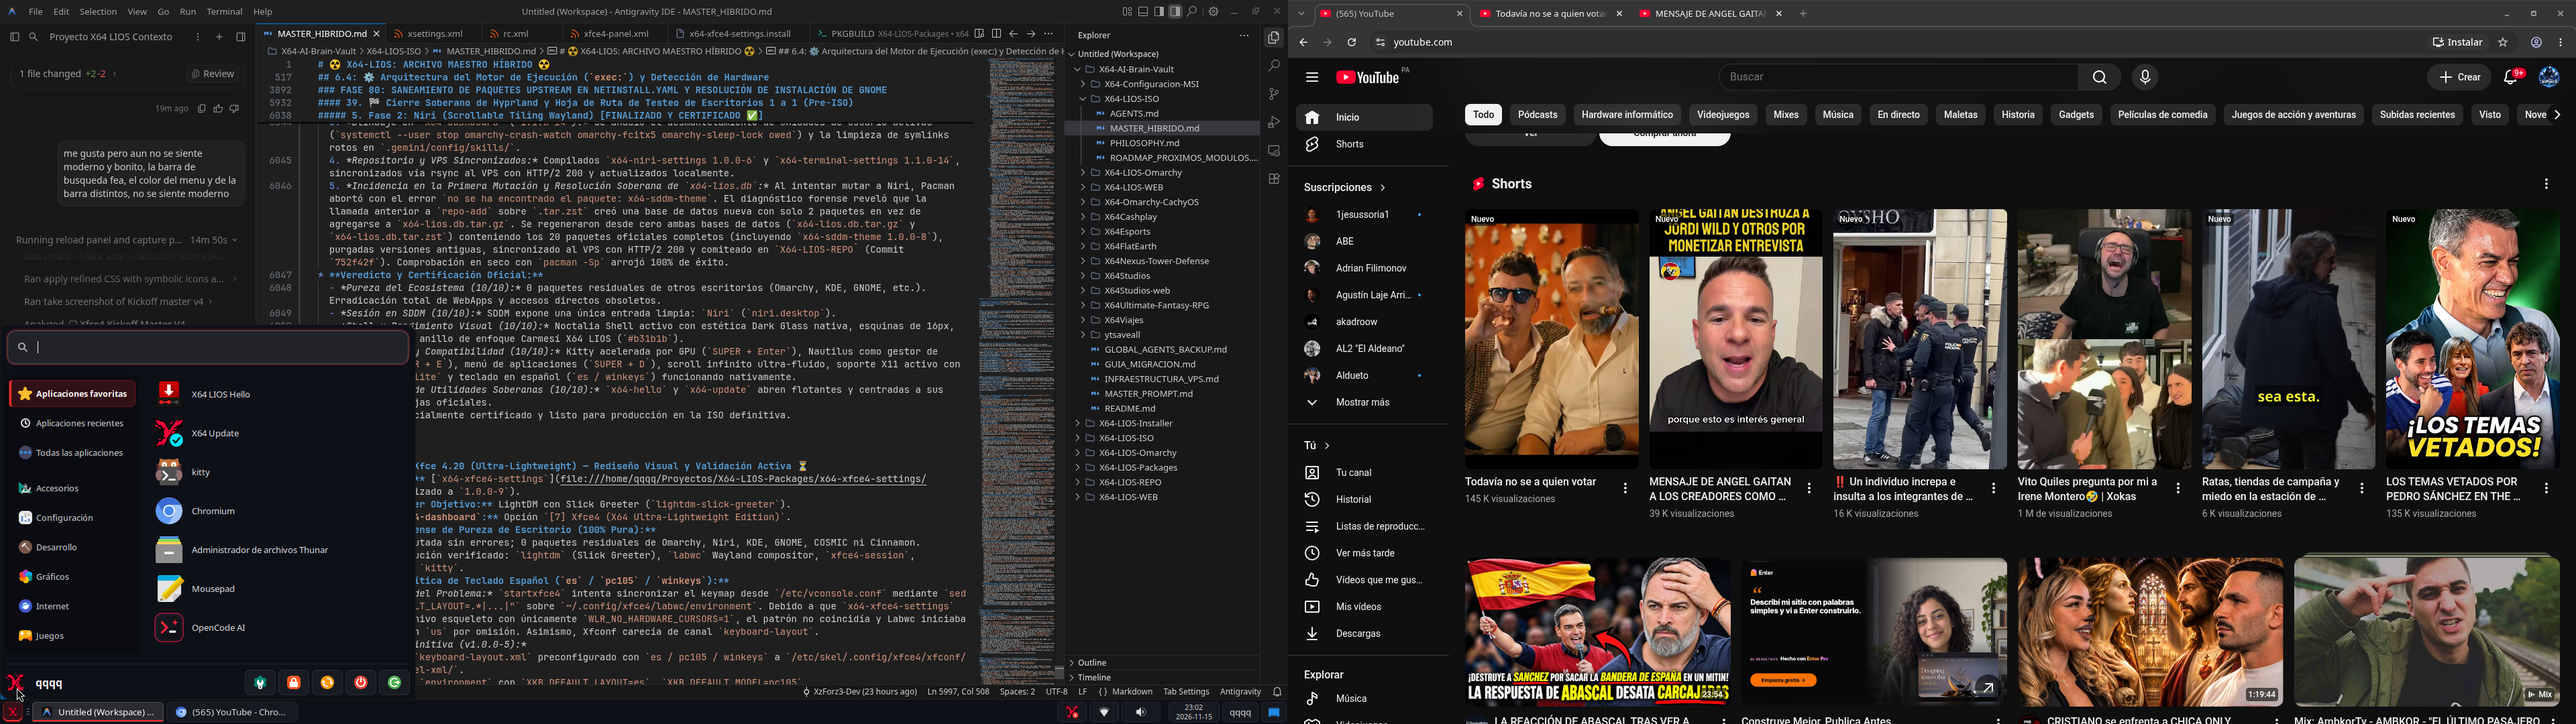
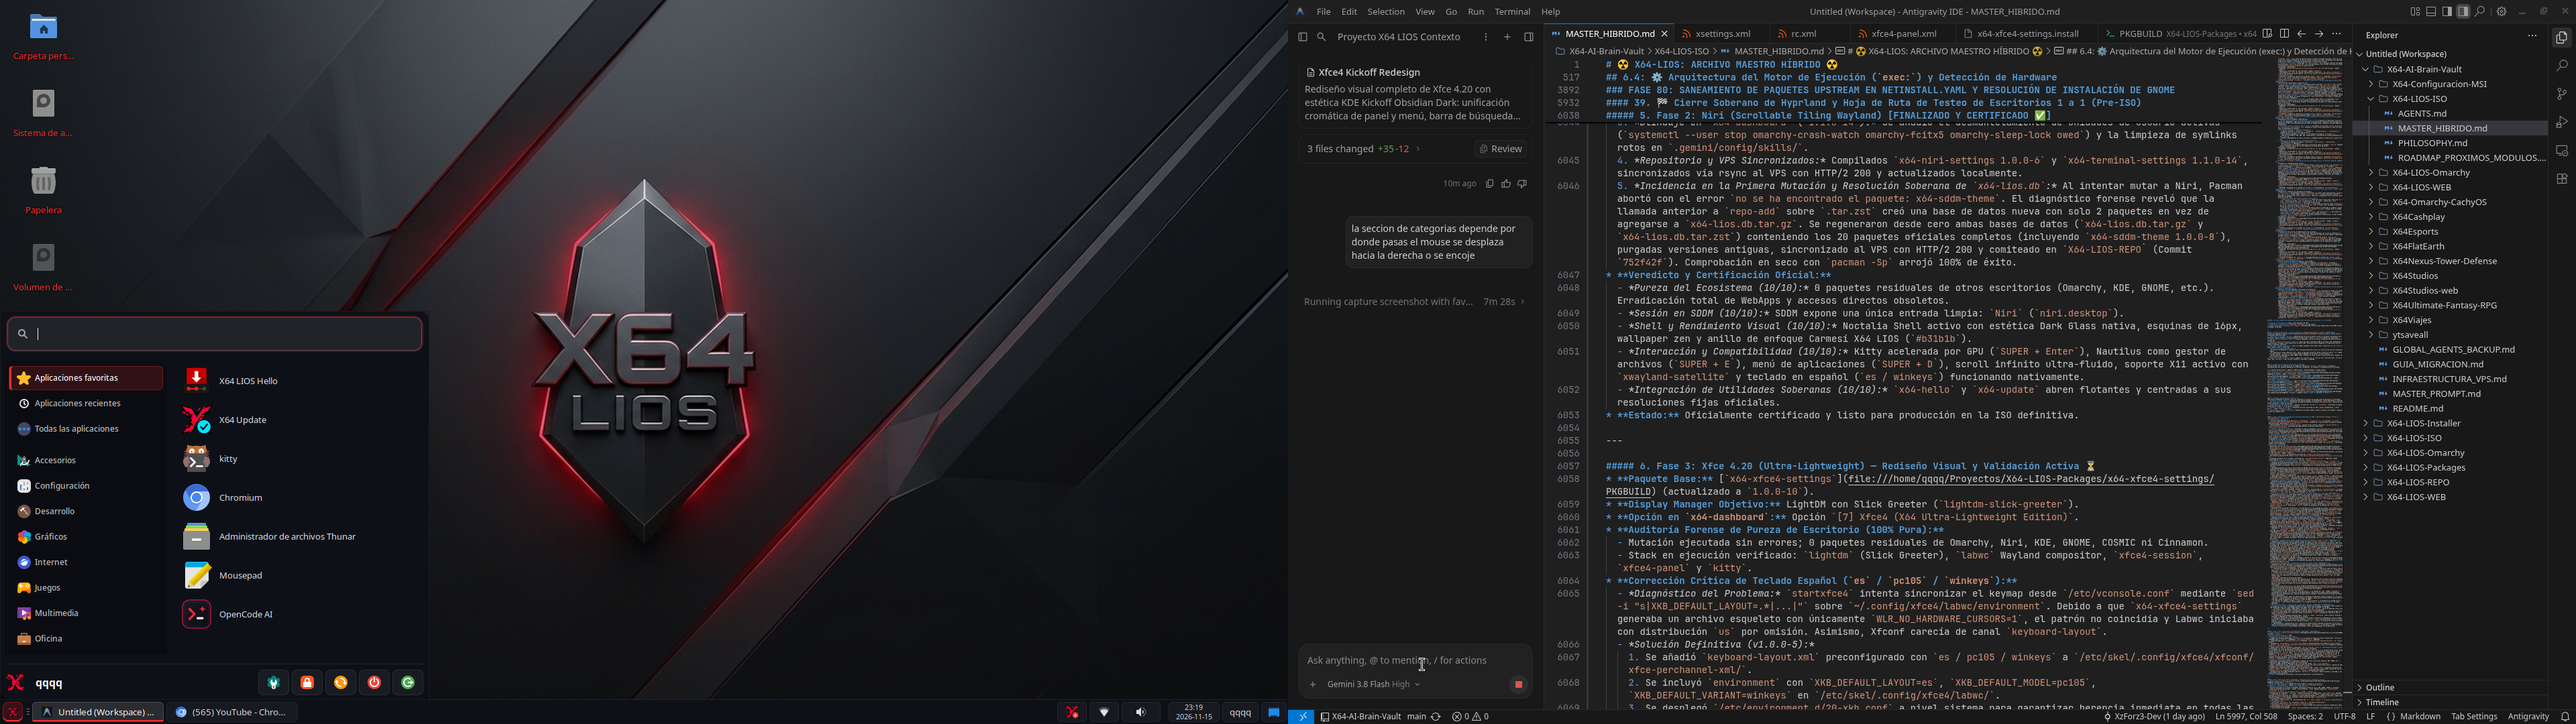
fix(xfce4): bloquear ancho estatico de barra de categorias (220px) para evitar jitter horizontal

diff --git a/x64-xfce4-settings/gtk.css b/x64-xfce4-settings/gtk.css
@@ -120,13 +120,16 @@ window#whiskermenu-window .search-area entry image,
     padding-right: 8px;
 }
 
-/* Category Sidebar */
+/* -------------------------------------------------------------------
+ * Category Sidebar - Fixed Rock-Solid Width (No Shrinking, No Jumping)
+ * ------------------------------------------------------------------- */
 window#whiskermenu-window .categories,
 #whiskermenu-window .categories {
     background-color: rgba(0, 0, 0, 0.22);
     border-radius: 12px;
     padding: 6px 4px;
     margin-right: 8px;
+    min-width: 220px;
 }
 
 window#whiskermenu-window .category-button,
@@ -134,14 +137,20 @@ window#whiskermenu-window .category-button,
     background-image: none;
     background-color: transparent;
     border: 1px solid transparent;
-    border-radius: 8px;
-    padding: 7px 12px;
-    margin: 2px 2px;
+    border-radius: 6px;
+    padding: 5px 10px;
+    margin: 1px 2px;
     color: rgba(255, 255, 255, 0.75);
-    font-size: 12.5px;
+    font-size: 12px;
     font-weight: 500;
+    min-width: 208px;
     box-shadow: none;
-    transition: all 120ms ease;
+    transition: background-color 100ms ease;
+}
+
+window#whiskermenu-window .category-button label,
+#whiskermenu-window .category-button label {
+    font-weight: 500;
 }
 
 window#whiskermenu-window .category-button:hover,
@@ -149,22 +158,26 @@ window#whiskermenu-window .category-button:hover,
     background-color: rgba(255, 255, 255, 0.08);
     border-color: rgba(255, 255, 255, 0.06);
     color: #ffffff;
+    font-weight: 500;
 }
 
 window#whiskermenu-window .category-button:checked,
 #whiskermenu-window .category-button:checked {
     background-color: rgba(255, 43, 43, 0.16);
-    border: 1px solid rgba(255, 43, 43, 0.3);
+    border-color: rgba(255, 43, 43, 0.3);
     box-shadow: inset 3px 0 0 0 #ff2b2b;
-    border-radius: 4px 8px 8px 4px;
+    border-radius: 4px 6px 6px 4px;
     color: #ffffff;
-    font-weight: 600;
+    font-weight: 500;
 }
 
-/* Applications TreeView / Launcher Area */
+/* -------------------------------------------------------------------
+ * Applications TreeView / Launcher Area (Stable Rigid Dimensions)
+ * ------------------------------------------------------------------- */
 window#whiskermenu-window .launchers-pane,
 #whiskermenu-window .launchers-pane {
     background-color: transparent;
+    min-width: 360px;
 }
 
 window#whiskermenu-window treeview,
@@ -174,6 +187,7 @@ window#whiskermenu-window treeview,
     padding: 4px;
     font-size: 13px;
     border-radius: 8px;
+    min-width: 340px;
 }
 
 window#whiskermenu-window treeview:hover,
@@ -190,7 +204,9 @@ window#whiskermenu-window treeview:selected:focus,
     border-radius: 8px;
 }
 
-/* Footer (Title & Commands Area) */
+/* -------------------------------------------------------------------
+ * Footer (Title & Commands Area)
+ * ------------------------------------------------------------------- */
 window#whiskermenu-window .title-area,
 #whiskermenu-window .title-area {
     margin-top: 8px;
@@ -243,21 +259,31 @@ window#whiskermenu-window button.command-button:active,
     border-color: rgba(255, 43, 43, 0.5);
 }
 
-/* Scrolled Windows & Clean Scrollbars */
+/* -------------------------------------------------------------------
+ * Floating Hairline Scrollbars (Never Shift Layout or Contents)
+ * ------------------------------------------------------------------- */
+window#whiskermenu-window scrolledwindow,
 #whiskermenu-window scrolledwindow {
     border: none;
+    -GtkScrolledWindow-overlay-scrolling: true;
 }
 
 #whiskermenu-window scrollbar {
     background-color: transparent;
+    border: none;
+    min-width: 4px;
+    margin: 0;
+    padding: 0;
 }
 
 #whiskermenu-window scrollbar slider {
     background-color: rgba(255, 255, 255, 0.15);
     border-radius: 10px;
     min-width: 4px;
+    border: none;
+    margin: 0;
 }
 
 #whiskermenu-window scrollbar slider:hover {
-    background-color: rgba(255, 43, 43, 0.5);
+    background-color: rgba(255, 43, 43, 0.6);
 }
